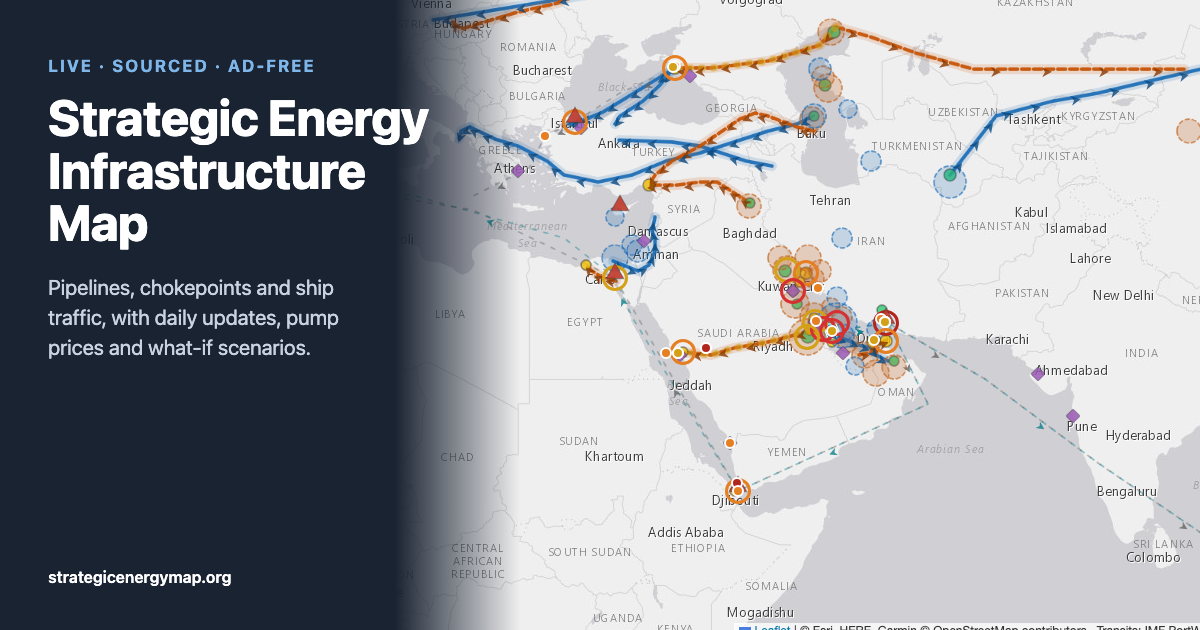
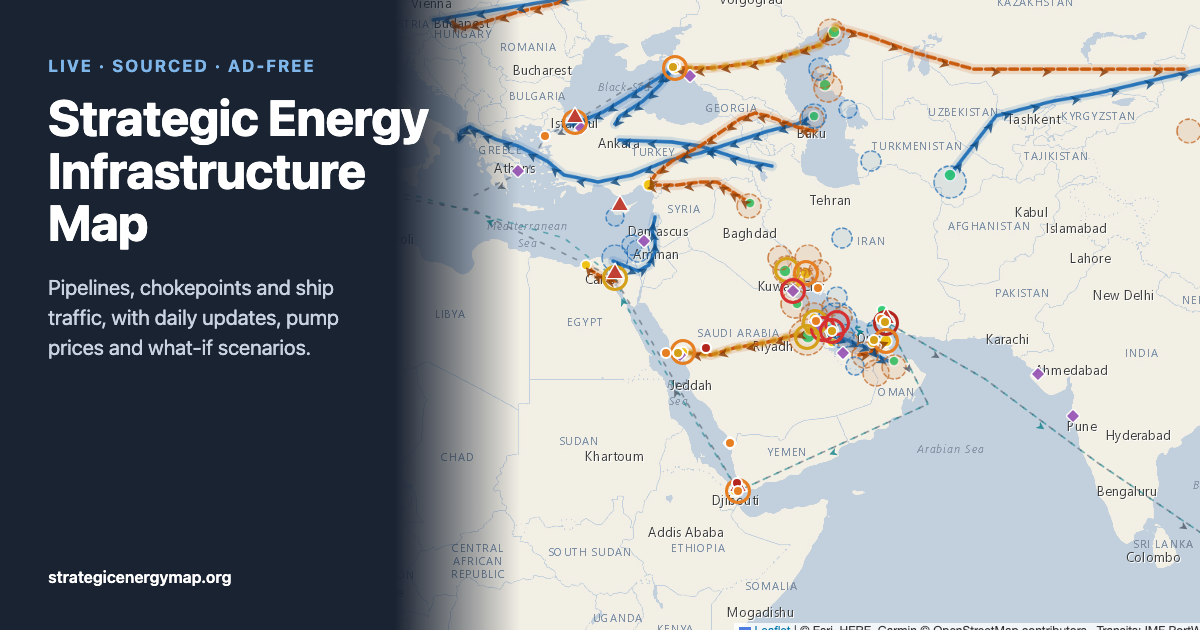
Paper & slate basemap by default; data-layer tidy-up
- Default basemap: Esri light grey recoloured with an SVG duotone (warm
  paper land, slate-blue water); other styles stay available via ?basemap=
- White outlines on site, refinery and chokepoint markers; lighter field
  fills (0.12/0.10) so the Gulf no longer smudges; stronger shipping routes
- og.png re-rendered; build copies the og-card template locally only

diff --git a/app.js b/app.js
@@ -105,7 +105,7 @@ function duotoneFilter(id, stops) { // grey level → colour, via an SVG table t
     <feFuncR type="table" tableValues="${ch[0].join(' ')}"/><feFuncG type="table" tableValues="${ch[1].join(' ')}"/><feFuncB type="table" tableValues="${ch[2].join(' ')}"/></feComponentTransfer></filter>`;
   document.body.appendChild(svg);
 }
-const BASEMAP = BASEMAPS[params.get('basemap')] || BASEMAPS.gray;
+const BASEMAP = BASEMAPS[params.get('basemap')] || BASEMAPS.paper; // default: paper & slate
 if (BASEMAP.dark) document.body.classList.add('basemap-dark');
 const baseLayer = L.tileLayer(BASEMAP.base, { attribution: `${BASEMAP.attr} · Transits: IMF PortWatch`, maxZoom: 16, subdomains: 'abcd', className: 'base-tiles' }).addTo(map);
 if (BASEMAP.duotone) { duotoneFilter('basemap-duotone', BASEMAP.duotone); baseLayer.getContainer().style.filter = 'url(#basemap-duotone)'; }
@@ -115,8 +115,8 @@ const LAYERS = [
   { key: 'gas',        label: 'Gas pipelines',         sw: `<span class="sw-line" style="background:${COLORS.gas}"></span>` },
   { key: 'oil',        label: 'Oil pipelines',         sw: `<span class="sw-dash" style="border-color:${COLORS.oil}"></span>` },
   { key: 'routes',     label: 'Tanker & LNG routes',   sw: `<span class="sw-dash" style="border-color:#777;border-top-width:2px"></span>` },
-  { key: 'oilfield',   label: 'Oil fields',            sw: `<span class="sw-field" style="border-color:#c0641e;background:rgba(192,100,30,.25)"></span>` },
-  { key: 'gasfield',   label: 'Gas fields',            sw: `<span class="sw-field" style="border-color:${COLORS.gas};background:rgba(26,107,181,.2)"></span>` },
+  { key: 'oilfield',   label: 'Oil fields',            sw: `<span class="sw-field" style="border-color:#c0641e;background:rgba(192,100,30,.12)"></span>` },
+  { key: 'gasfield',   label: 'Gas fields',            sw: `<span class="sw-field" style="border-color:${COLORS.gas};background:rgba(26,107,181,.10)"></span>` },
   { key: 'production', label: 'Production sites',      sw: `<span class="sw-circle" style="background:${COLORS.production}"></span>` },
   { key: 'refinery',   label: 'Refineries',            sw: `<span class="sw-diamond" style="background:${COLORS.refinery}"></span>` },
   { key: 'lng',        label: 'LNG terminals',         sw: `<span class="sw-hex" style="background:${COLORS.lng}"></span>` },
@@ -175,8 +175,8 @@ infra.pipelines.forEach(p => {
 });
 
 infra.routes.forEach(r => {
-  const color = r.commodity === 'lng' ? '#0b7f89' : '#666';
-  const line = L.polyline(r.coords, { color, weight: 1.6, opacity: r.alternative ? 0.25 : 0.45, dashArray: r.alternative ? '2 8' : '4 8' });
+  const color = r.commodity === 'lng' ? '#0b7f89' : '#4d5866';
+  const line = L.polyline(r.coords, { color, weight: 1.6, opacity: r.alternative ? 0.35 : 0.6, dashArray: r.alternative ? '2 8' : '4 8' });
   line.bindTooltip(r.name + (r.note ? ` — ${r.note}` : ''), { sticky: true });
   groups.routes.addLayer(line);
   arrows(r.coords, color, groups.routes, 8, 2);
@@ -189,12 +189,12 @@ infra.sites.forEach(s => {
   let m;
   if (s.kind === 'refinery') {
     m = L.marker(s.coords, { icon: L.divIcon({ className: '', iconSize: [14, 14], iconAnchor: [7, 7],
-      html: `<svg width="14" height="14" viewBox="0 0 14 14"><rect x="2" y="2" width="10" height="10" rx="1.5" transform="rotate(45 7 7)" fill="${COLORS.refinery}" fill-opacity="0.85" stroke="#333" stroke-opacity="0.4"/></svg>` }) });
+      html: `<svg width="14" height="14" viewBox="0 0 14 14"><rect x="2" y="2" width="10" height="10" rx="1.5" transform="rotate(45 7 7)" fill="${COLORS.refinery}" fill-opacity="0.95" stroke="#fff" stroke-width="1.3"/></svg>` }) });
   } else if (s.kind === 'lng') {
     m = L.marker(s.coords, { icon: L.divIcon({ className: '', iconSize: [16, 16], iconAnchor: [8, 8],
       html: `<svg width="16" height="16" viewBox="0 0 16 16"><polygon points="4,1 12,1 15,8 12,15 4,15 1,8" fill="${COLORS.lng}" fill-opacity="0.9" stroke="#fff" stroke-width="1.2"/></svg>` }) });
   } else {
-    m = L.circleMarker(s.coords, { radius: s.size || 5, fillColor: COLORS[s.kind] || '#999', color: '#333', weight: 1.5, opacity: 0.5, fillOpacity: 0.8 });
+    m = L.circleMarker(s.coords, { radius: s.size || 5, fillColor: COLORS[s.kind] || '#999', color: '#fff', weight: 1.5, opacity: 1, fillOpacity: 0.95 });
   }
   m.bindTooltip(s.name);
   m.on('click', () => showDetail(s.id));
@@ -206,13 +206,13 @@ infra.sites.forEach(s => {
 infra.fields.forEach(f => {
   const isOil = f.commodity === 'oil';
   const m = L.circleMarker(f.coords, {
-    radius: f.size || 10, color: isOil ? '#c0641e' : COLORS.gas, weight: 1.5, opacity: 0.7, dashArray: '4 3',
-    fillColor: isOil ? 'rgba(192,100,30,0.25)' : 'rgba(26,107,181,0.2)', fillOpacity: 1,
+    radius: f.size || 10, color: isOil ? '#c0641e' : COLORS.gas, weight: 1.4, opacity: 0.8, dashArray: '4 3',
+    fillColor: isOil ? 'rgba(192,100,30,0.12)' : 'rgba(26,107,181,0.10)', fillOpacity: 1,
   });
   m.bindTooltip(f.name);
   m.on('click', () => showDetail(f.id));
   m.on('mouseover', () => m.setStyle({ weight: 2.5, opacity: 1 }));
-  m.on('mouseout', () => m.setStyle({ weight: 1.5, opacity: 0.7 }));
+  m.on('mouseout', () => m.setStyle({ weight: 1.4, opacity: 0.8 }));
   groups[isOil ? 'oilfield' : 'gasfield'].addLayer(m);
   register(f.id, { type: 'field', data: f, center: f.coords, tag: isOil ? 'Oil field' : 'Gas field' });
   bump(isOil ? 'oilfield' : 'gasfield');
@@ -220,7 +220,7 @@ infra.fields.forEach(f => {
 
 infra.chokepoints.forEach(c => {
   const m = L.marker(c.coords, { zIndexOffset: 500, icon: L.divIcon({ className: '', iconSize: [22, 22], iconAnchor: [11, 17],
-    html: `<svg width="22" height="22" viewBox="0 0 20 20"><polygon points="10,2 18,16 2,16" fill="#c0392b" fill-opacity="0.9" stroke="#333" stroke-opacity="0.4"/></svg>` }) });
+    html: `<svg width="22" height="22" viewBox="0 0 20 20"><polygon points="10,2 18,16 2,16" fill="#c0392b" fill-opacity="0.95" stroke="#fff" stroke-width="1.3" stroke-linejoin="round"/></svg>` }) });
   m.bindTooltip(c.name);
   m.on('click', () => showDetail(c.id));
   groups.choke.addLayer(m);

diff --git a/styles.css b/styles.css
@@ -80,9 +80,9 @@ body.embed .edge-tab { display: none !important; }
 .sw { width: 22px; display: inline-flex; justify-content: center; align-items: center; flex-shrink: 0; }
 .sw-line { width: 22px; height: 3px; border-radius: 2px; }
 .sw-dash { width: 22px; height: 0; border-top: 3px dashed; }
-.sw-circle { width: 11px; height: 11px; border-radius: 50%; border: 1.5px solid rgba(0,0,0,0.25); }
+.sw-circle { width: 11px; height: 11px; border-radius: 50%; border: 1.5px solid #fff; box-shadow: 0 0 0 1px rgba(0,0,0,0.18); }
 .sw-field { width: 13px; height: 13px; border-radius: 50%; border: 2px dashed; }
-.sw-diamond { width: 10px; height: 10px; transform: rotate(45deg); border: 1.5px solid rgba(0,0,0,0.25); }
+.sw-diamond { width: 10px; height: 10px; transform: rotate(45deg); border: 1.5px solid #fff; box-shadow: 0 0 0 1px rgba(0,0,0,0.18); }
 .sw-hex { width: 12px; height: 12px; clip-path: polygon(25% 0,75% 0,100% 50%,75% 100%,25% 100%,0 50%); }
 .sw-tri { width: 0; height: 0; border-left: 6px solid transparent; border-right: 6px solid transparent; border-bottom: 11px solid var(--crit); }
 .status-legend .row { display: flex; align-items: center; gap: 8px; line-height: 1.7; }

diff --git a/index.html b/index.html
@@ -22,7 +22,7 @@
 <link rel="icon" href="favicon.svg" type="image/svg+xml">
 <link rel="stylesheet" href="https://cdnjs.cloudflare.com/ajax/libs/leaflet/1.9.4/leaflet.min.css" />
 <script src="https://cdnjs.cloudflare.com/ajax/libs/leaflet/1.9.4/leaflet.min.js"></script>
-<link rel="stylesheet" href="styles.css?v=11" />
+<link rel="stylesheet" href="styles.css?v=12" />
 <script>window.va = window.va || function () { (window.vaq = window.vaq || []).push(arguments); };</script>
 <script defer src="/_vercel/insights/script.js"></script>
 </head>
@@ -78,6 +78,6 @@
 
 <div id="map"></div>
 
-<script src="app.js?v=12"></script>
+<script src="app.js?v=13"></script>
 </body>
 </html>

diff --git a/about.html b/about.html
@@ -16,7 +16,7 @@
 <meta property="og:image:height" content="630">
 <meta name="twitter:card" content="summary_large_image">
 <link rel="icon" href="favicon.svg" type="image/svg+xml">
-<link rel="stylesheet" href="styles.css?v=6" />
+<link rel="stylesheet" href="styles.css?v=12" />
 <script>window.va = window.va || function () { (window.vaq = window.vaq || []).push(arguments); };</script>
 <script defer src="/_vercel/insights/script.js"></script>
 </head>

diff --git a/README.md b/README.md
@@ -71,7 +71,7 @@ python3 scripts/update_fuel.py
 
 ### Link-preview image
 
-`og.png` is rendered from `tools/og-card.html` with headless Chrome while the local server is running:
+`og.png` is rendered from `tools/og-card.html` (copied into `dist/tools/` by the local build) with headless Chrome while the local server is serving `dist/`:
 
 ```bash
 "/Applications/Google Chrome.app/Contents/MacOS/Google Chrome" --headless=new --user-data-dir="$(mktemp -d)" --hide-scrollbars --window-size=1200,630 --virtual-time-budget=12000 --screenshot="$PWD/og.png" http://localhost:8765/tools/og-card.html
